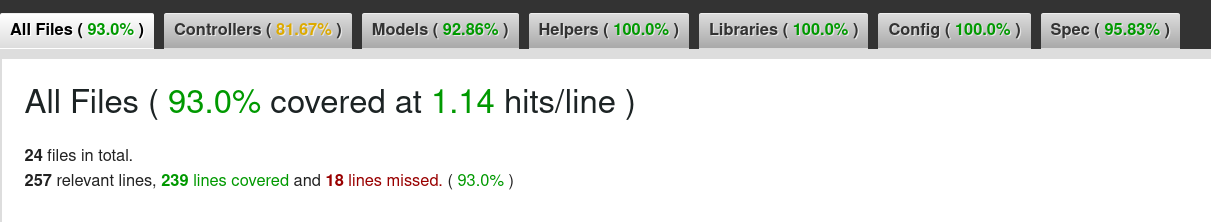
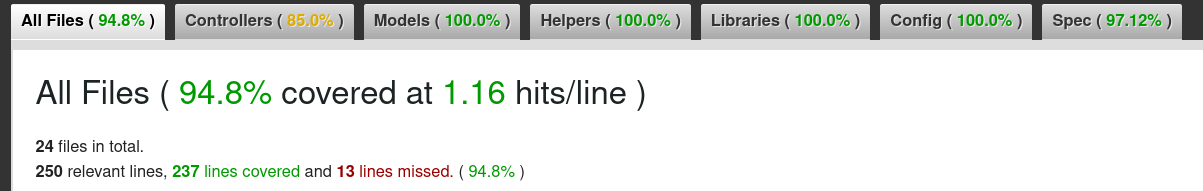
Обновленные тесты и обновленный файл Coverage.png

Changed region(s): [[0.0, 0.0, 1.0, 1.0]]

diff --git a/lesson-6/reports/spec/requests/lab_report_spec.rb b/lesson-6/reports/spec/requests/lab_report_spec.rb
@@ -8,14 +8,6 @@ RSpec.describe 'LabReports', type: :request do
     end
   end
 
-  describe 'GET show' do
-    it 'renders the show page' do
-      lab_report = LabReport.create(title: 'Rails application', description: 'Laboratory reports', grade: 'None')
-      get lab_report_path(lab_report)
-      expect(response).to render_template(:show)
-    end
-  end
-
   describe 'GET new' do
     it 'renders the new page' do
       get new_lab_report_path
@@ -26,7 +18,7 @@ RSpec.describe 'LabReports', type: :request do
   describe 'POST create' do
     context 'with valid params' do
       it 'creates a new lab report and redirects' do
-        valid_params = { lab_report: { title: 'Rails application', description: 'Laboratory reports', grade: 'None' } }
+        valid_params = { lab_report: { title: 'Rails application', description: 'Laboratory reports', grade: 'A' } }
         expect {
           post lab_reports_path, params: valid_params
         }.to change(LabReport, :count).by(1)
@@ -47,7 +39,7 @@ RSpec.describe 'LabReports', type: :request do
 
   describe 'PATCH update' do
     it 'updates the lab report and redirects' do
-      lab_report = LabReport.create(title: 'Rails application', description: 'Laboratory reports', grade: 'None')
+      lab_report = LabReport.create(title: 'Rails application', description: 'Laboratory reports', grade: 'A')
       valid_params = { lab_report: { title: 'Updated Title' } }
       patch lab_report_path(lab_report), params: valid_params
       expect(response).to redirect_to(lab_report_path(lab_report))
@@ -56,7 +48,7 @@ RSpec.describe 'LabReports', type: :request do
 
   describe 'DELETE destroy' do
     it 'destroys the lab report and redirects to index' do
-      lab_report = LabReport.create(title: 'Rails application', description: 'Laboratory reports', grade: 'None')
+      lab_report = LabReport.create(title: 'Rails application', description: 'Laboratory reports', grade: 'A')
       expect {
         delete lab_report_path(lab_report)
       }.to change(LabReport, :count).by(-1)

diff --git a/lesson-6/reports/spec/requests/user_spec.rb b/lesson-6/reports/spec/requests/user_spec.rb
@@ -51,7 +51,7 @@ RSpec.describe 'Users', type: :request do
     end
 
     context 'Creating a record with invalid values' do
-      let(:invalid_params) { { user: { email: 'example@example', first_name: 'first name', last_name: 'last name' } } }
+      let(:invalid_params) { { user: { email: 'example', first_name: 'first name', last_name: 'last name' } } }
 
       it 'The number of records will not increase and redirects to a page with a form for a new user' do
         expect do

diff --git a/lesson-6/reports/app/models/user.rb b/lesson-6/reports/app/models/user.rb
@@ -4,7 +4,4 @@ class User < ApplicationRecord
   validates :first_name, length: { maximum: 100 }
   validates :last_name, length: { maximum: 100 }
 
-  def full_name
-    "#{first_name} #{last_name}"
-  end
 end
